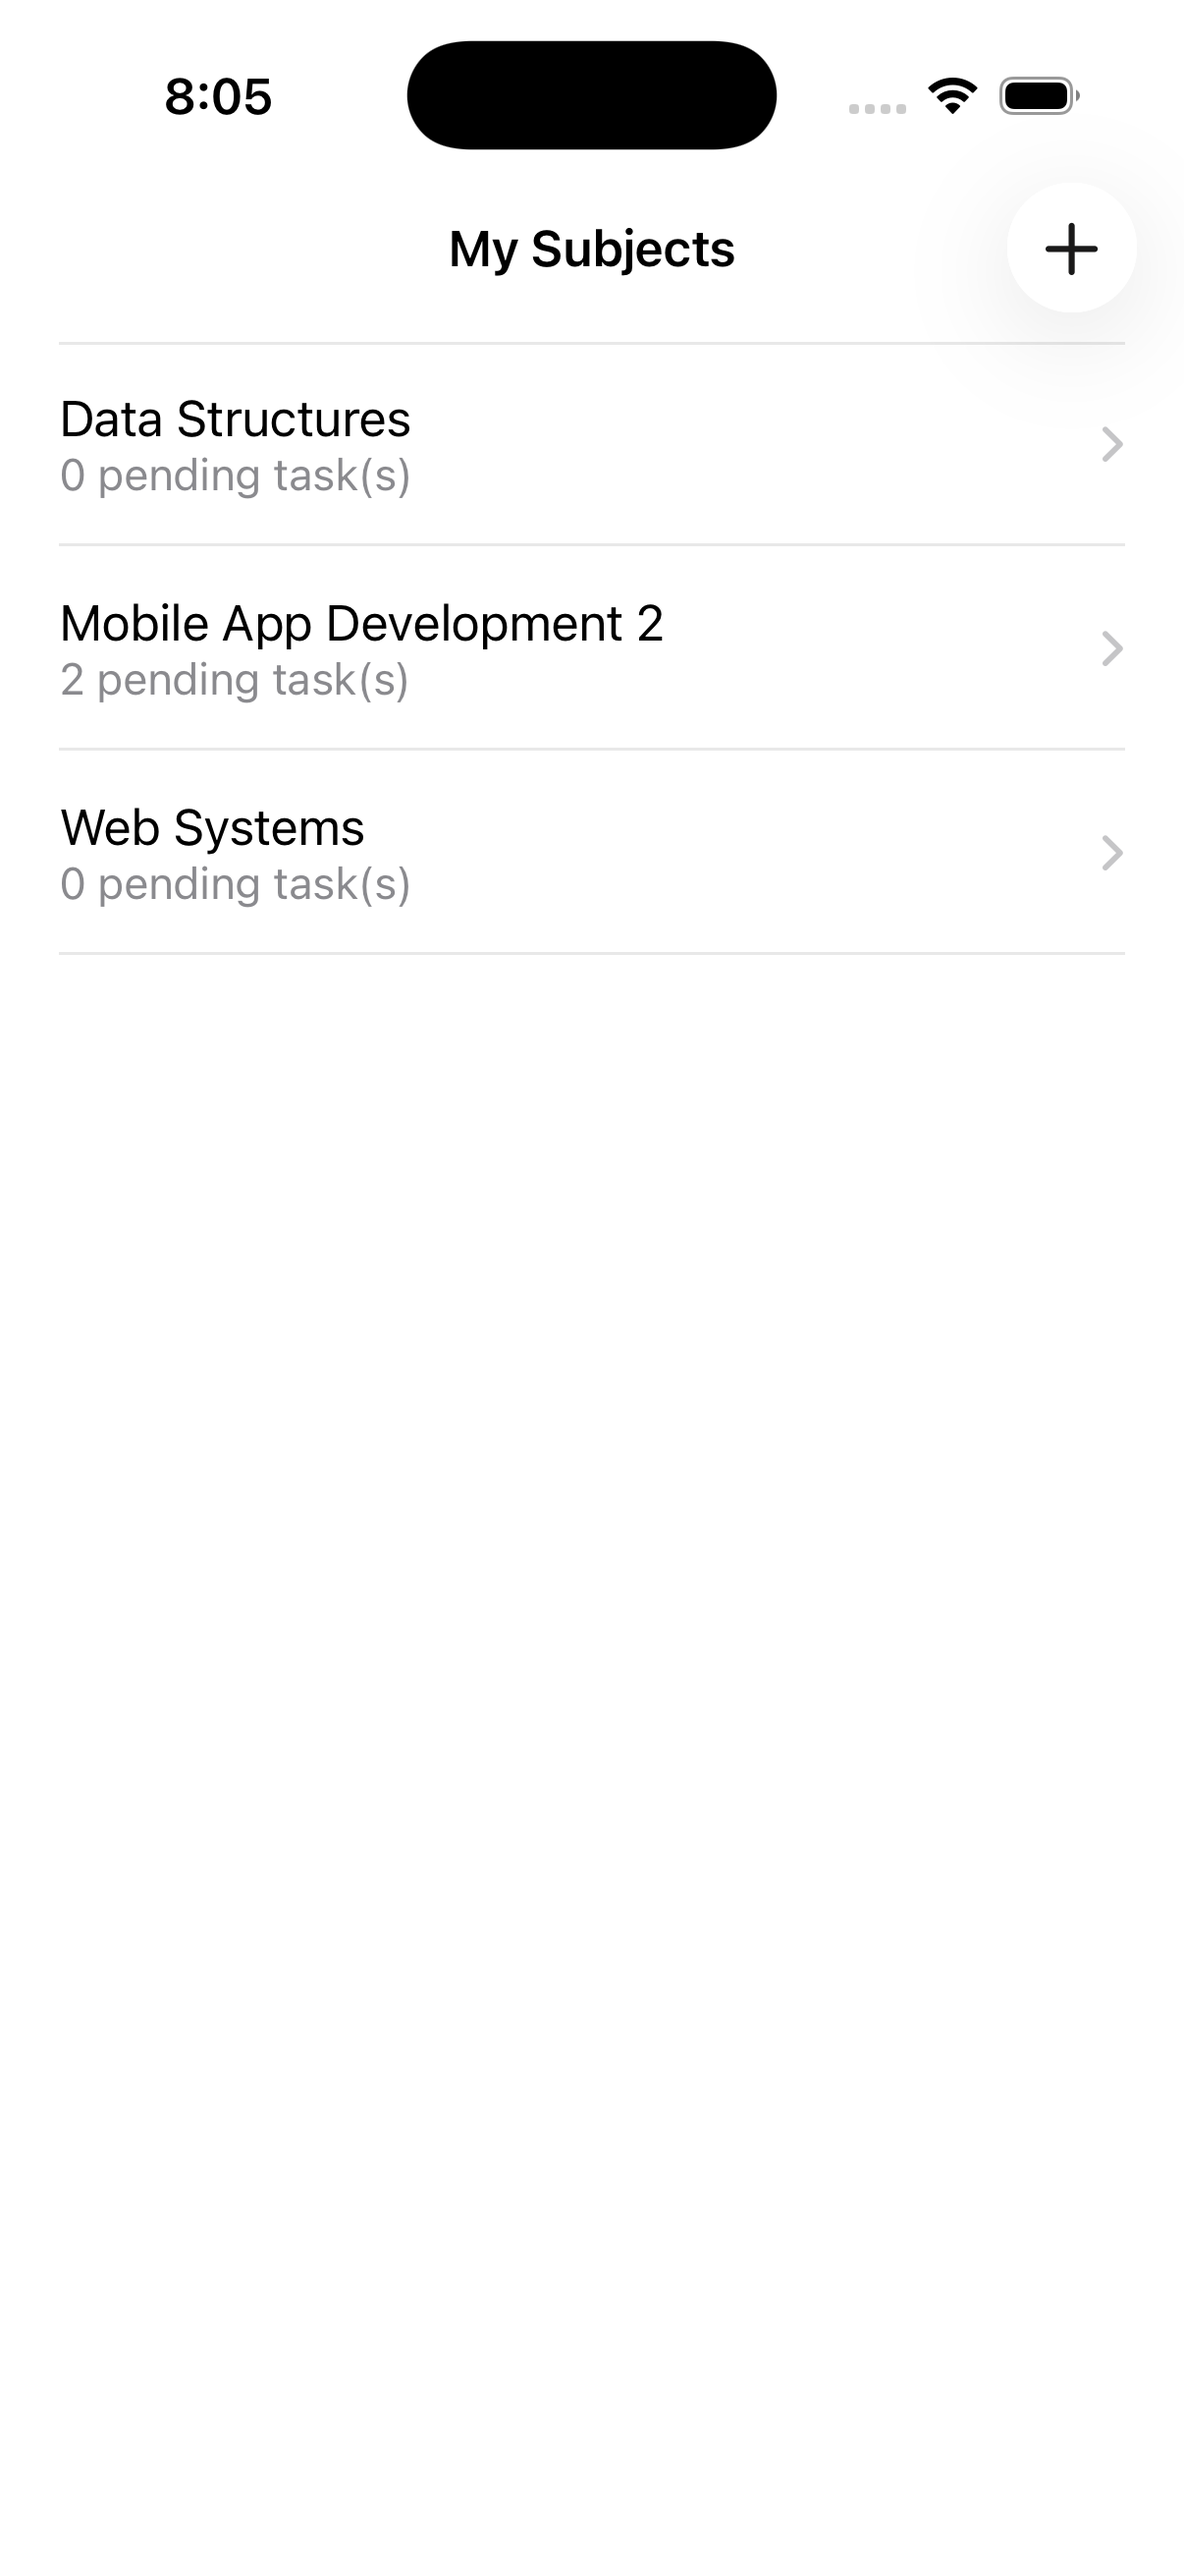
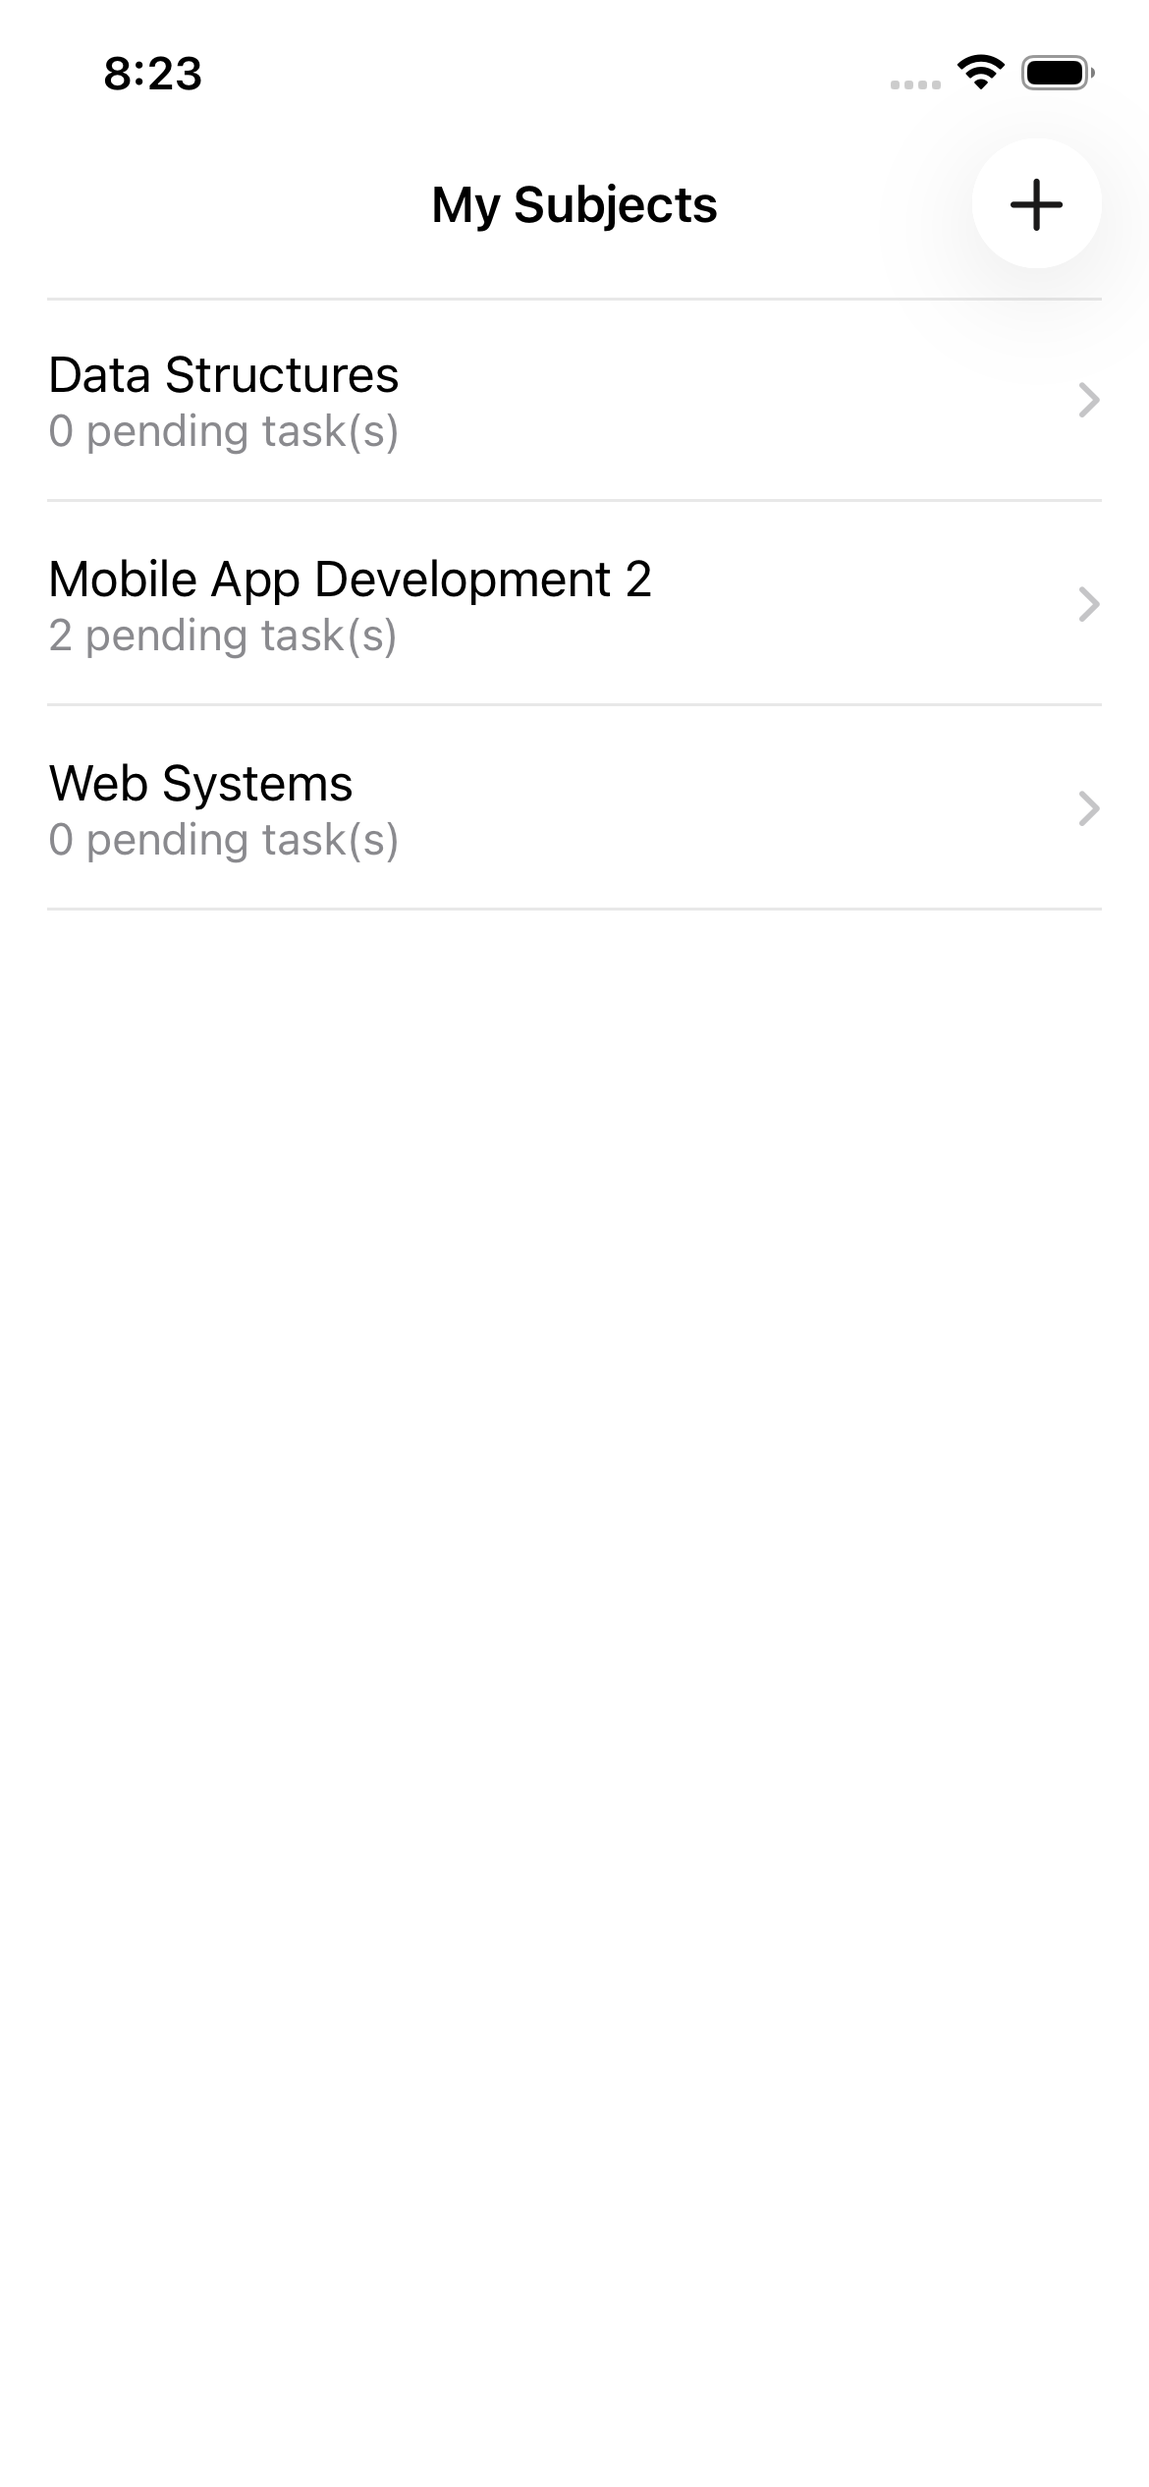
Capture all app screenshots on iPhone 16e and update deliverables checklist

diff --git a/Deliverables_Screenshots/README.md b/Deliverables_Screenshots/README.md
@@ -6,27 +6,22 @@ This directory contains the required submission screenshots for the **Student Or
 
 | Filename | Status | Requirement Verified |
 |---|---|---|
-| `01_CoreData_Graph.png` | **Action Required** | Needs a native capture in Xcode Core Data Model Editor (`⌘⇧4`). |
-| `02_Subjects_List.png` | **Captured** | Displays 3 subjects: Data Structures, Mobile App Development 2, Web Systems (&ge; 2 required). |
-| `03_Tasks_List.png` | **Captured** | Displays 3 tasks: Finish MP1, Read Core Data guide, Submit lab sheet (1 marked completed with checkmark). |
-| `04_Task_Form.png` | **Captured** | Task creation/edit form with title, details, date picker, segmented priority, and switch. |
-| `05_Notes_Grid.png` | **Captured** | 2-column collection view grid with 2 notes (1 with photo, 1 text-only with icon). |
-| `06_Note_Detail.png` | **Captured** | Individual note detail view showing full photo, formatted timestamp, note text, and delete button. |
-| `07_Persistence_Before.png` | **Captured** | Running app screen displaying data prior to terminating the app. |
-| `08_Persistence_After.png` | **Captured** | Screen after completely terminating the app and cold-booting, showing identical persistent data. |
-| `09_Xcode_Run_Destination.png` | **Action Required** | Needs a screenshot of Xcode showing the physical iPhone (or Simulator) run destination (`⌘⇧4`). |
-| `10_Layout_Smallest_Simulator.png` | **Captured** | Layout on smallest available simulator (iPhone 16e) with zero clipping or overflow. |
+| `01_CoreData_Graph.png` | **Captured** | Core Data Model Graph editor showing Subject, TaskItem, and Note entities and relationships. |
+| `02_Subjects_List.png` | **Captured** | Displays 3 subjects: Data Structures, Mobile App Development 2, Web Systems (≥ 2 required, captured on iPhone 16e). |
+| `03_Tasks_List.png` | **Captured** | Displays 3 tasks: Finish MP1, Read Core Data guide, Submit lab sheet (1 marked completed, captured on iPhone 16e). |
+| `04_Task_Form.png` | **Captured** | Task creation/edit form with title, details, date picker, segmented priority, and switch (captured on iPhone 16e). |
+| `05_Notes_Grid.png` | **Captured** | 2-column collection view grid with 2 notes (1 with photo, 1 text-only with icon, captured on iPhone 16e). |
+| `06_Note_Detail.png` | **Captured** | Individual note detail view showing photo, timestamp, note text, and delete button (captured on iPhone 16e). |
+| `07_Persistence_Before.png` | **Captured** | Running app screen displaying data prior to terminating the app (captured on iPhone 16e). |
+| `08_Persistence_After.png` | **Captured** | Screen after completely terminating the app and cold-booting, showing identical persistent data (captured on iPhone 16e). |
+| `09_Xcode_Run_Destination.png` | **Action Required** | Screenshot of Xcode window showing project and iPhone / Simulator destination (`⌘⇧4`). |
+| `10_Layout_Smallest_Simulator.png` | **Captured** | Layout on smallest available simulator (iPhone 16e) with clean responsive spacing. |
 | `11_Layout_Largest_Simulator.png` | **Captured** | Layout on largest available simulator (iPhone 17 Pro Max) with clean responsive spacing. |
 
 ---
 
-## Quick Steps for Remaining 2 Xcode Screenshots:
+## Next Step for Final Xcode Destination Screenshot:
 
-1. **`01_CoreData_Graph.png` (Core Data Graph Editor in Xcode):**
-   - In Xcode, click `StudentOrganizer.xcdatamodeld` in the Project Navigator.
-   - At the bottom-right corner of the editor canvas, click the **Graph** view button (two small connected squares).
-   - Press **⌘⇧4** on your Mac keyboard, drag to select the three entity boxes (`Subject`, `TaskItem`, `Note`), and save the screenshot as `Deliverables_Screenshots/01_CoreData_Graph.png`.
-
-2. **`09_Xcode_Run_Destination.png` (Xcode Destination Toolbar):**
-   - Connect your iPhone to your Mac via USB and select it from the top toolbar device menu in Xcode (or select your approved Simulator).
-   - Press **⌘⇧4**, drag to select the Xcode window header showing the project name and destination device name, and save the screenshot as `Deliverables_Screenshots/09_Xcode_Run_Destination.png`.
+**`09_Xcode_Run_Destination.png` (Xcode Destination Toolbar):**
+- In Xcode, select your physical iPhone (or Simulator) in the top toolbar run destination menu.
+- Press **⌘⇧4** on your Mac keyboard, drag over the Xcode top toolbar area showing `StudentOrganizer > [Device Name]`, and save the screenshot as `Deliverables_Screenshots/09_Xcode_Run_Destination.png`.
